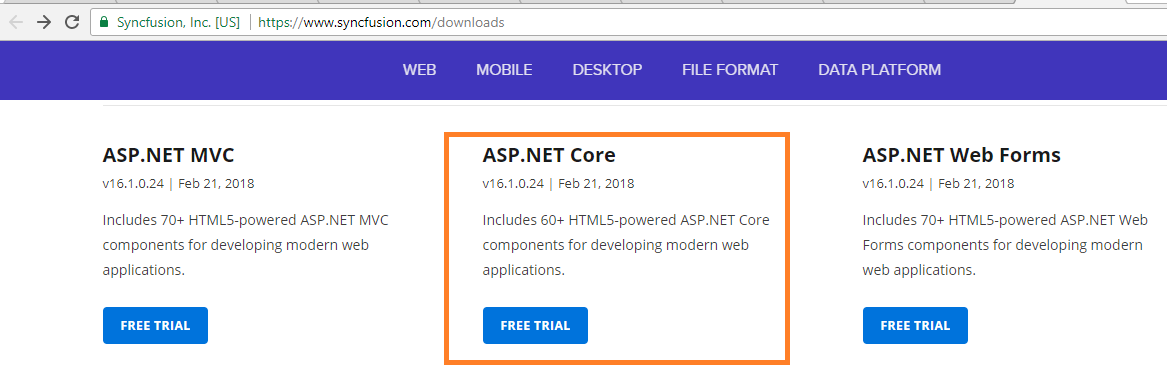
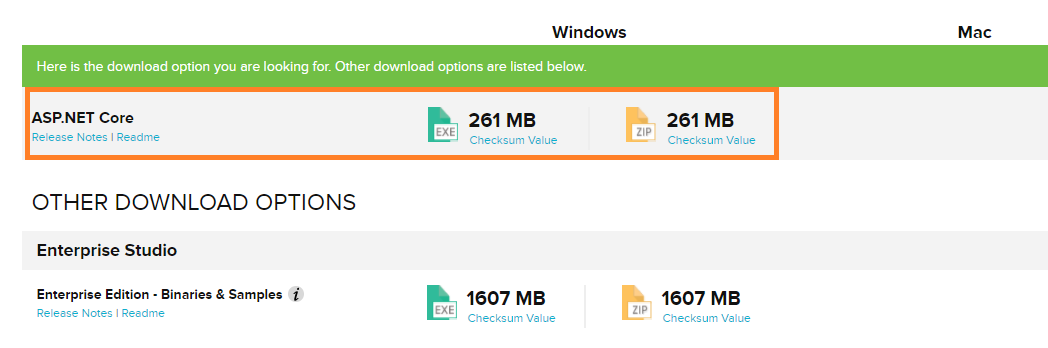
Download images changed

diff --git a/aspnet-core/Installation/Windows.md b/aspnet-core/Installation/Windows.md
@@ -40,9 +40,7 @@ The following procedure illustrates how to install Essential Studio ASP.NET Core
 
    **Use Unlock Key**
 
-   ![](Platform_images/Step-by-Step-Installation_img3.png)
-
-   N> To install using key, provide the unlock key.
+   ![](Platform_images/Step-by-Step-Installation_img3.png)   
 
 
 4. After reading the License Terms and Conditions, check the **I agree to the License Terms and Conditions** check box.
@@ -65,15 +63,15 @@ The following procedure illustrates how to install Essential Studio ASP.NET Core
 
     ![](Platform_images/Step-by-Step-Installation_img5.png)
 
-     N> The Completed screen is displayed once the package is installed.
+7. The Completed screen is displayed once the ASP.NET Core platform is installed.
 
     ![](Platform_images/Step-by-Step-Installation_img6.png)
 
 
-7. Select the **Run Syncfusion Control Panel** check box to launch the Syncfusion Control Panel after installing.
+8. Select the **Run Syncfusion Control Panel** check box to launch the Syncfusion Control Panel after installing.
 
 
-8. Click Finish. Syncfusion ASP.NET Core is installed in your system and the Syncfusion Essential Studio [Syncfusion Control Panel](http://help.syncfusion.com/common/essential-studio/utilities#dashboard ) is launched automatically.
+9. Click Finish. Syncfusion ASP.NET Core platform is installed in your system and the Syncfusion Essential Studio [Syncfusion Control Panel](http://help.syncfusion.com/common/essential-studio/utilities#dashboard ) is launched automatically.
 
 ## Installing in silent mode
 
@@ -83,7 +81,7 @@ The Syncfusion Essential Studio Platform Installer supports installing/uninstall
 
 Follow the steps below to install through Command Line in Silent mode.
 
-1. Double-click the Syncfusion Essential Studio platform setup file. The Setup Wizard opens and extracts the package automatically.
+1. Double-click the Syncfusion Essential Studio platform setup file. The Setup Wizard opens and extracts the package automatically. 
 2. The syncfusionessentialaspnetcore_(version).exe file is extracted into the Temp folder.
 3. Run %temp%. The Temp folder will open. The syncfusionessentialaspnetcore_(version).exe file is available in one of the folders.
 4. Copy the extracted syncfusionessentialaspnetcore_(version).exe file in local drive.

diff --git a/aspnet-core/Installation/Download.md b/aspnet-core/Installation/Download.md
@@ -18,7 +18,7 @@ To download the Syncfusion ASP.NET Core platform, follow the below steps.
    
 2. For evaluation users, download [here](https://www.syncfusion.com/downloads) .
 
-   ![](Platform_images/Download_img1.png)
+   ![](Platform_images/Download_img2.png)
    
 3. For Mac machines, Syncfusion provides separate installer (.pkg) which can be downloaded from the same downloads section.
 
